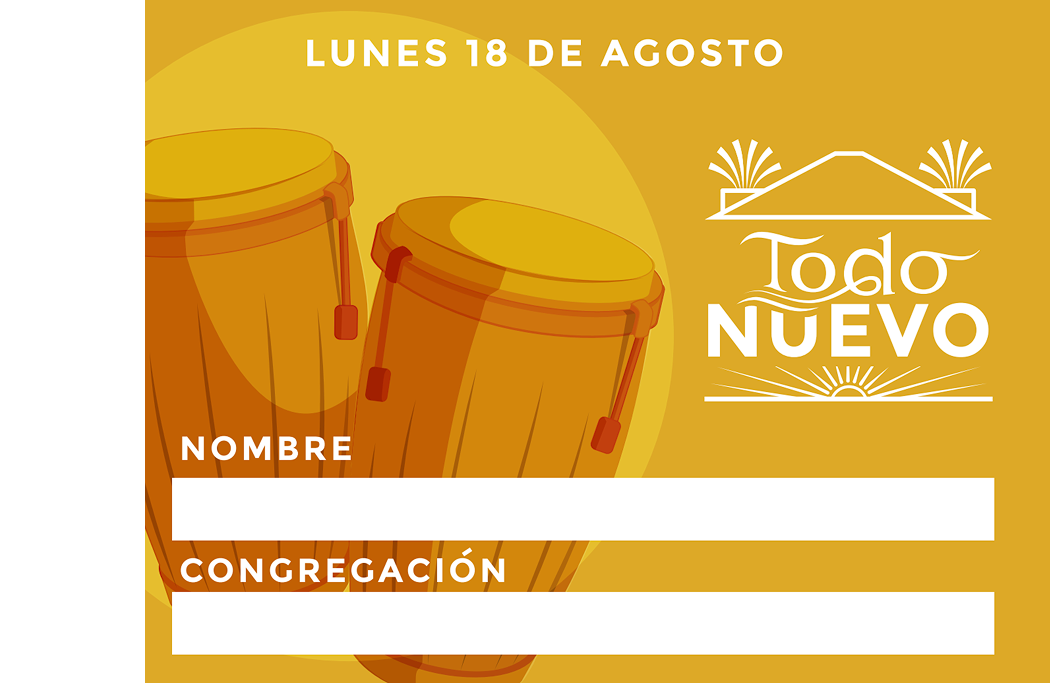
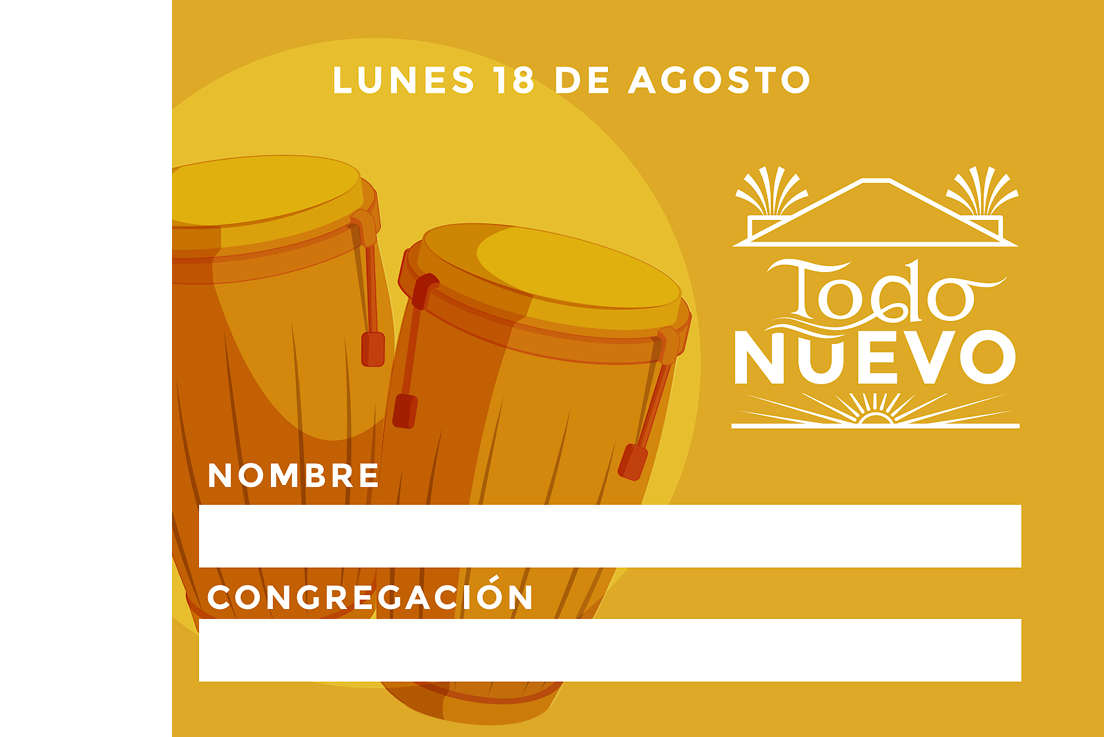
final ticket dimensions for printing

Changed region(s): [[0.1219, 0.0, 0.9752, 1.0], [0.2743, 0.0307, 0.7619, 0.123]]

diff --git a/components/TicketsPDF.tsx b/components/TicketsPDF.tsx
@@ -14,18 +14,18 @@ const styles = StyleSheet.create({
   page: {
     flexDirection: 'column',
     backgroundColor: '#ffffff',
-    padding: 10,
+    paddingTop: 20,
   },
   ticketGrid: {
     flexDirection: 'row',
     flexWrap: 'wrap',
-    justifyContent: 'space-around',
+    justifyContent: 'center',
     alignItems: 'center',
   },
   ticketContainer: {
-    width: 224.83,
-    height: 190,
-    marginBottom: 10,
+    width: 236.3,
+    height: 157.65,
+    marginBottom: 0,
     position: 'relative',
   },
   ticketImage: {
@@ -38,8 +38,8 @@ const styles = StyleSheet.create({
   },
   barcode: {
     position: 'absolute',
-    top: 85.5,
-    left: -52,
+    top: 69,
+    left: -46,
     width: 135,
     height: 19,
     transform: 'rotate(90deg)',
@@ -47,7 +47,7 @@ const styles = StyleSheet.create({
 })
 
 const TicketsPDFDocument = ({ tickets, validDay, barcodes }: TicketsPDFProps) => {
-  const ticketsPerPage = 18
+  const ticketsPerPage = 10
   const pages = Math.ceil(tickets.length / ticketsPerPage)
 
   return (

diff --git a/app/generate/page.tsx b/app/generate/page.tsx
@@ -334,7 +334,7 @@ export default function GeneratePage() {
                           {/* Custom Ticket Design */}
                           <div className="relative flex h-[236.2px] w-[363.2px]" >
                             {/* Barcode on the left side */}
-                            <div className="absolute left-0 top-0 z-10" style={{ width: '90px', height: '290px', transform: 'scale(.19) translateX(-74px) translateY(-47px)' }}>
+                            <div className="absolute left-0 top-0 z-10" style={{ width: '90px', height: '290px', transform: 'scale(.19) translateX(-50px) translateY(-47px)' }}>
                               <Barcode value={ticketId} />
                             </div>
                             
